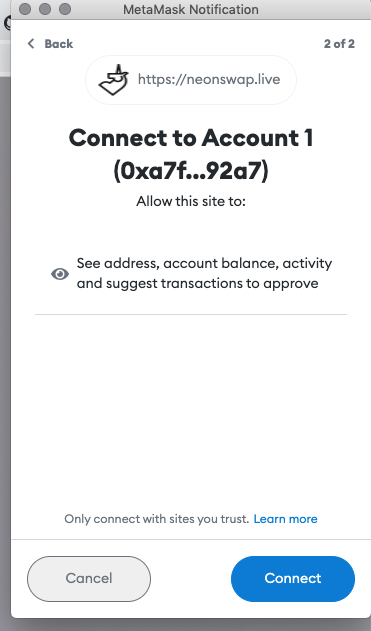
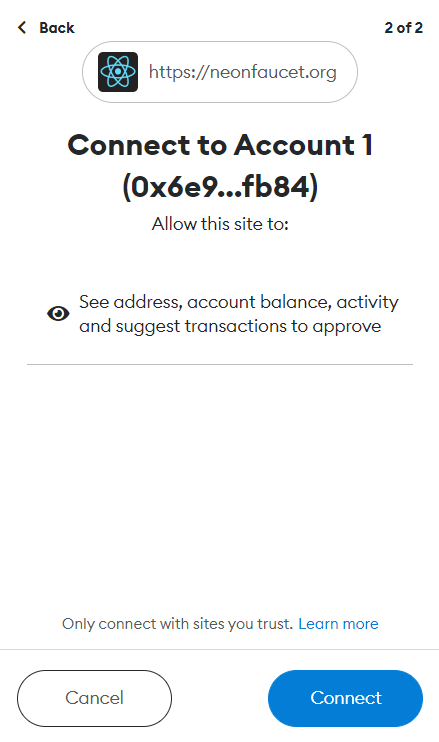
Updated & proofread Faucet article

diff --git a/docs/developing/utilities/faucet.md b/docs/developing/utilities/faucet.md
@@ -2,7 +2,7 @@
 title: Faucet
 ---
 
-You can request Test NEON tokens on the Solana devnet using the Neon Faucet.
+You can request Test NEON tokens on the Solana devnet using the Neon Faucet. There are two ways to use the Neon Faucet - on the Neon Faucet website, and using the Neon Faucet API.
 
 ## Requesting Test NEON Tokens via the User Interface
 
@@ -10,23 +10,15 @@ You can request Test NEON tokens on the Solana devnet using the Neon Faucet.
 Set up MetaMask by following the [Setting up MetaMask](../../wallet/metamask_setup#installing-metamask) guide.
 
 ### Step 2
-Go to the [Neonswap Faucet page](https://neonswap.live/#/get-tokens) to request test tokens.
+Go to the [Neonswap Faucet page](https://neonfaucet.org/) to request test tokens.
 
 ### Step 3
 Connect your MetaMask wallet:
-- Click on the `CONNECT WALLET` button.
+- Click on the `Connect Wallet` button to authorize the connection in the MetaMask pop-up.
 
 <div class='neon-img-box-300' style={{textAlign: 'center'}}>
 
 ![](./images/connect_walet.png)
-
-</div>
-
-- Click on the `CONNECT METAMASK` button.
-
-<div class='neon-img-box-300' style={{textAlign: 'center'}}>
-
-![](./images/connect_metamask.png)
 
 </div>
 
@@ -46,7 +38,7 @@ Connect your MetaMask wallet:
 
 </div>
 
-- In the form that appears, enter the number of tokens you would like to request and click on the `GET TOKENS` button.
+- In the form that appears, select the token and enter the amount of tokens you would like to request, and then click on the `TEST AIRDROP` button.
 
 <div class='neon-img-box-300' style={{textAlign: 'center'}}>
 
@@ -57,8 +49,7 @@ Connect your MetaMask wallet:
 
 # Requesting Test NEON Tokens via HTTP API Endpoints
 
-A client uses POST requests to send data to the server.
-Several endpoints are supported.
+For this method, a client uses POST requests to send data to the server. Several endpoints are supported, as shown in the following table.
 
 ```
 |------------------------------------------------------------------------------------------
@@ -72,22 +63,24 @@ Several endpoints are supported.
 |------------------------------------------------------------------------------------------
 ```
 
-Example of JSON payload:
+Some usage examples of the API method include the following:
+
+An example of a JSON payload:
 ```
 { "wallet": "0x4570e07200b6332989Dc04fA2a671b839D26eF0E", "amount": 1 }
 ```
 
-Example of ping request with **curl**:
+An example of ping request with **curl**:
 ```
 curl -i -X POST -d 'Hello' 'http://localhost:3333/request_ping'
 ```
 
-Example of version request with **curl**:
+An example of version request with **curl**:
 ```
 curl -i -X POST 'http://localhost:3333/request_version'
 ```
 
-Example of NEON drop request with **curl**:
+An example of NEON drop request with **curl**:
 ```
 curl -i -X POST \
     -d '{"wallet": "0x4570e07200b6332989Dc04fA2a671b839D26eF0E", "amount": 1}' \
@@ -97,7 +90,7 @@ curl -i -X POST \
 
 # Configuration
 
-The configuration file should be in the TOML format.
+The configuration file should be in the TOML format. A table containing all the configuration options with their descriptions is shown below.
 
 ```
 |----------------------------------------------------------------------------------------------
@@ -106,12 +99,12 @@ The configuration file should be in the TOML format.
 | rpc.bind                | Local interface TCP address
 | rpc.port                | TCP port to listen
 | rpc.allowed_origins     | List of client URLs that can send requests
-| web3.enable             | Flag to on/off the entire web3 section
+| web3.enable             | Flag to toggle the entire web3 section
 | web3.rpc_url            | Ethereum network endpoint
 | web3.private_key        | Ethereum private key to support operations
 | web3.tokens             | List of available ERC20 token addresses
 | web3.max_amount         | Largest amount of ERC20 tokens to distribute with a single request
-| solana.enable           | Flag to on/off the entire solana section
+| solana.enable           | Flag to toggle the entire solana section
 | solana.url              | Solana network endpoint
 | solana.commitment       | Solana client commitment level
 | solana.operator_keyfile | Solana keyfile to support operations
